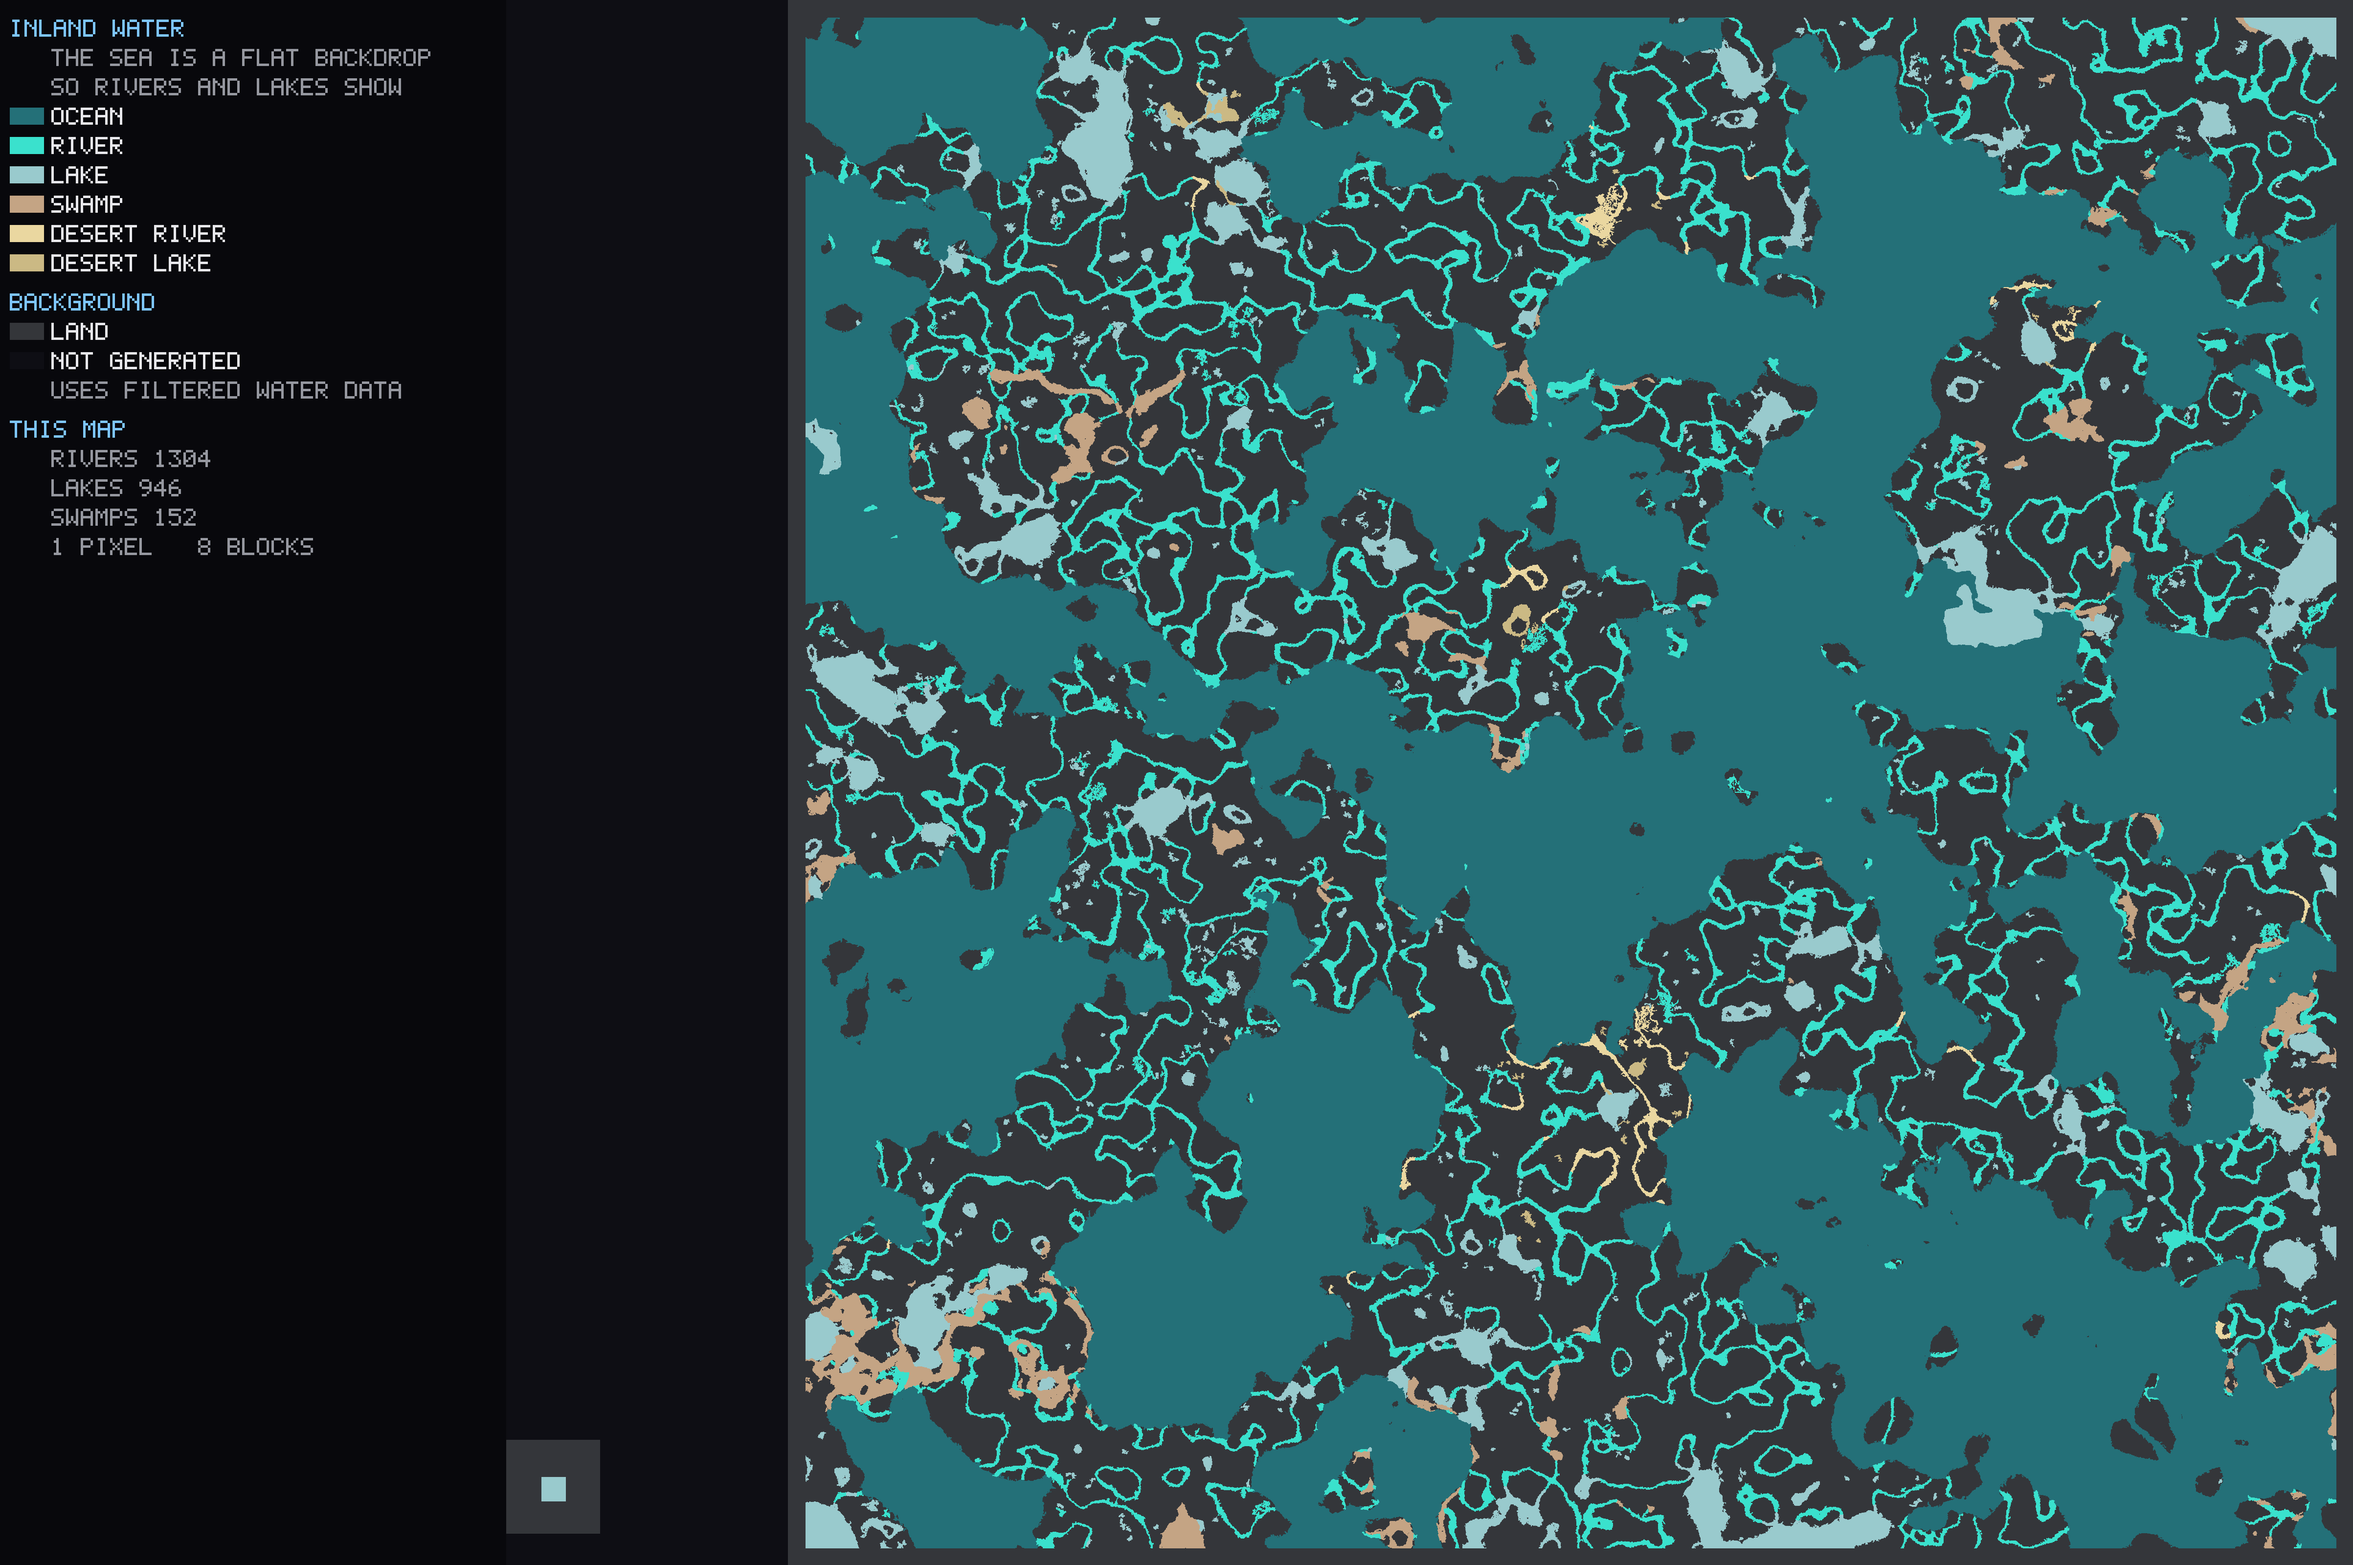
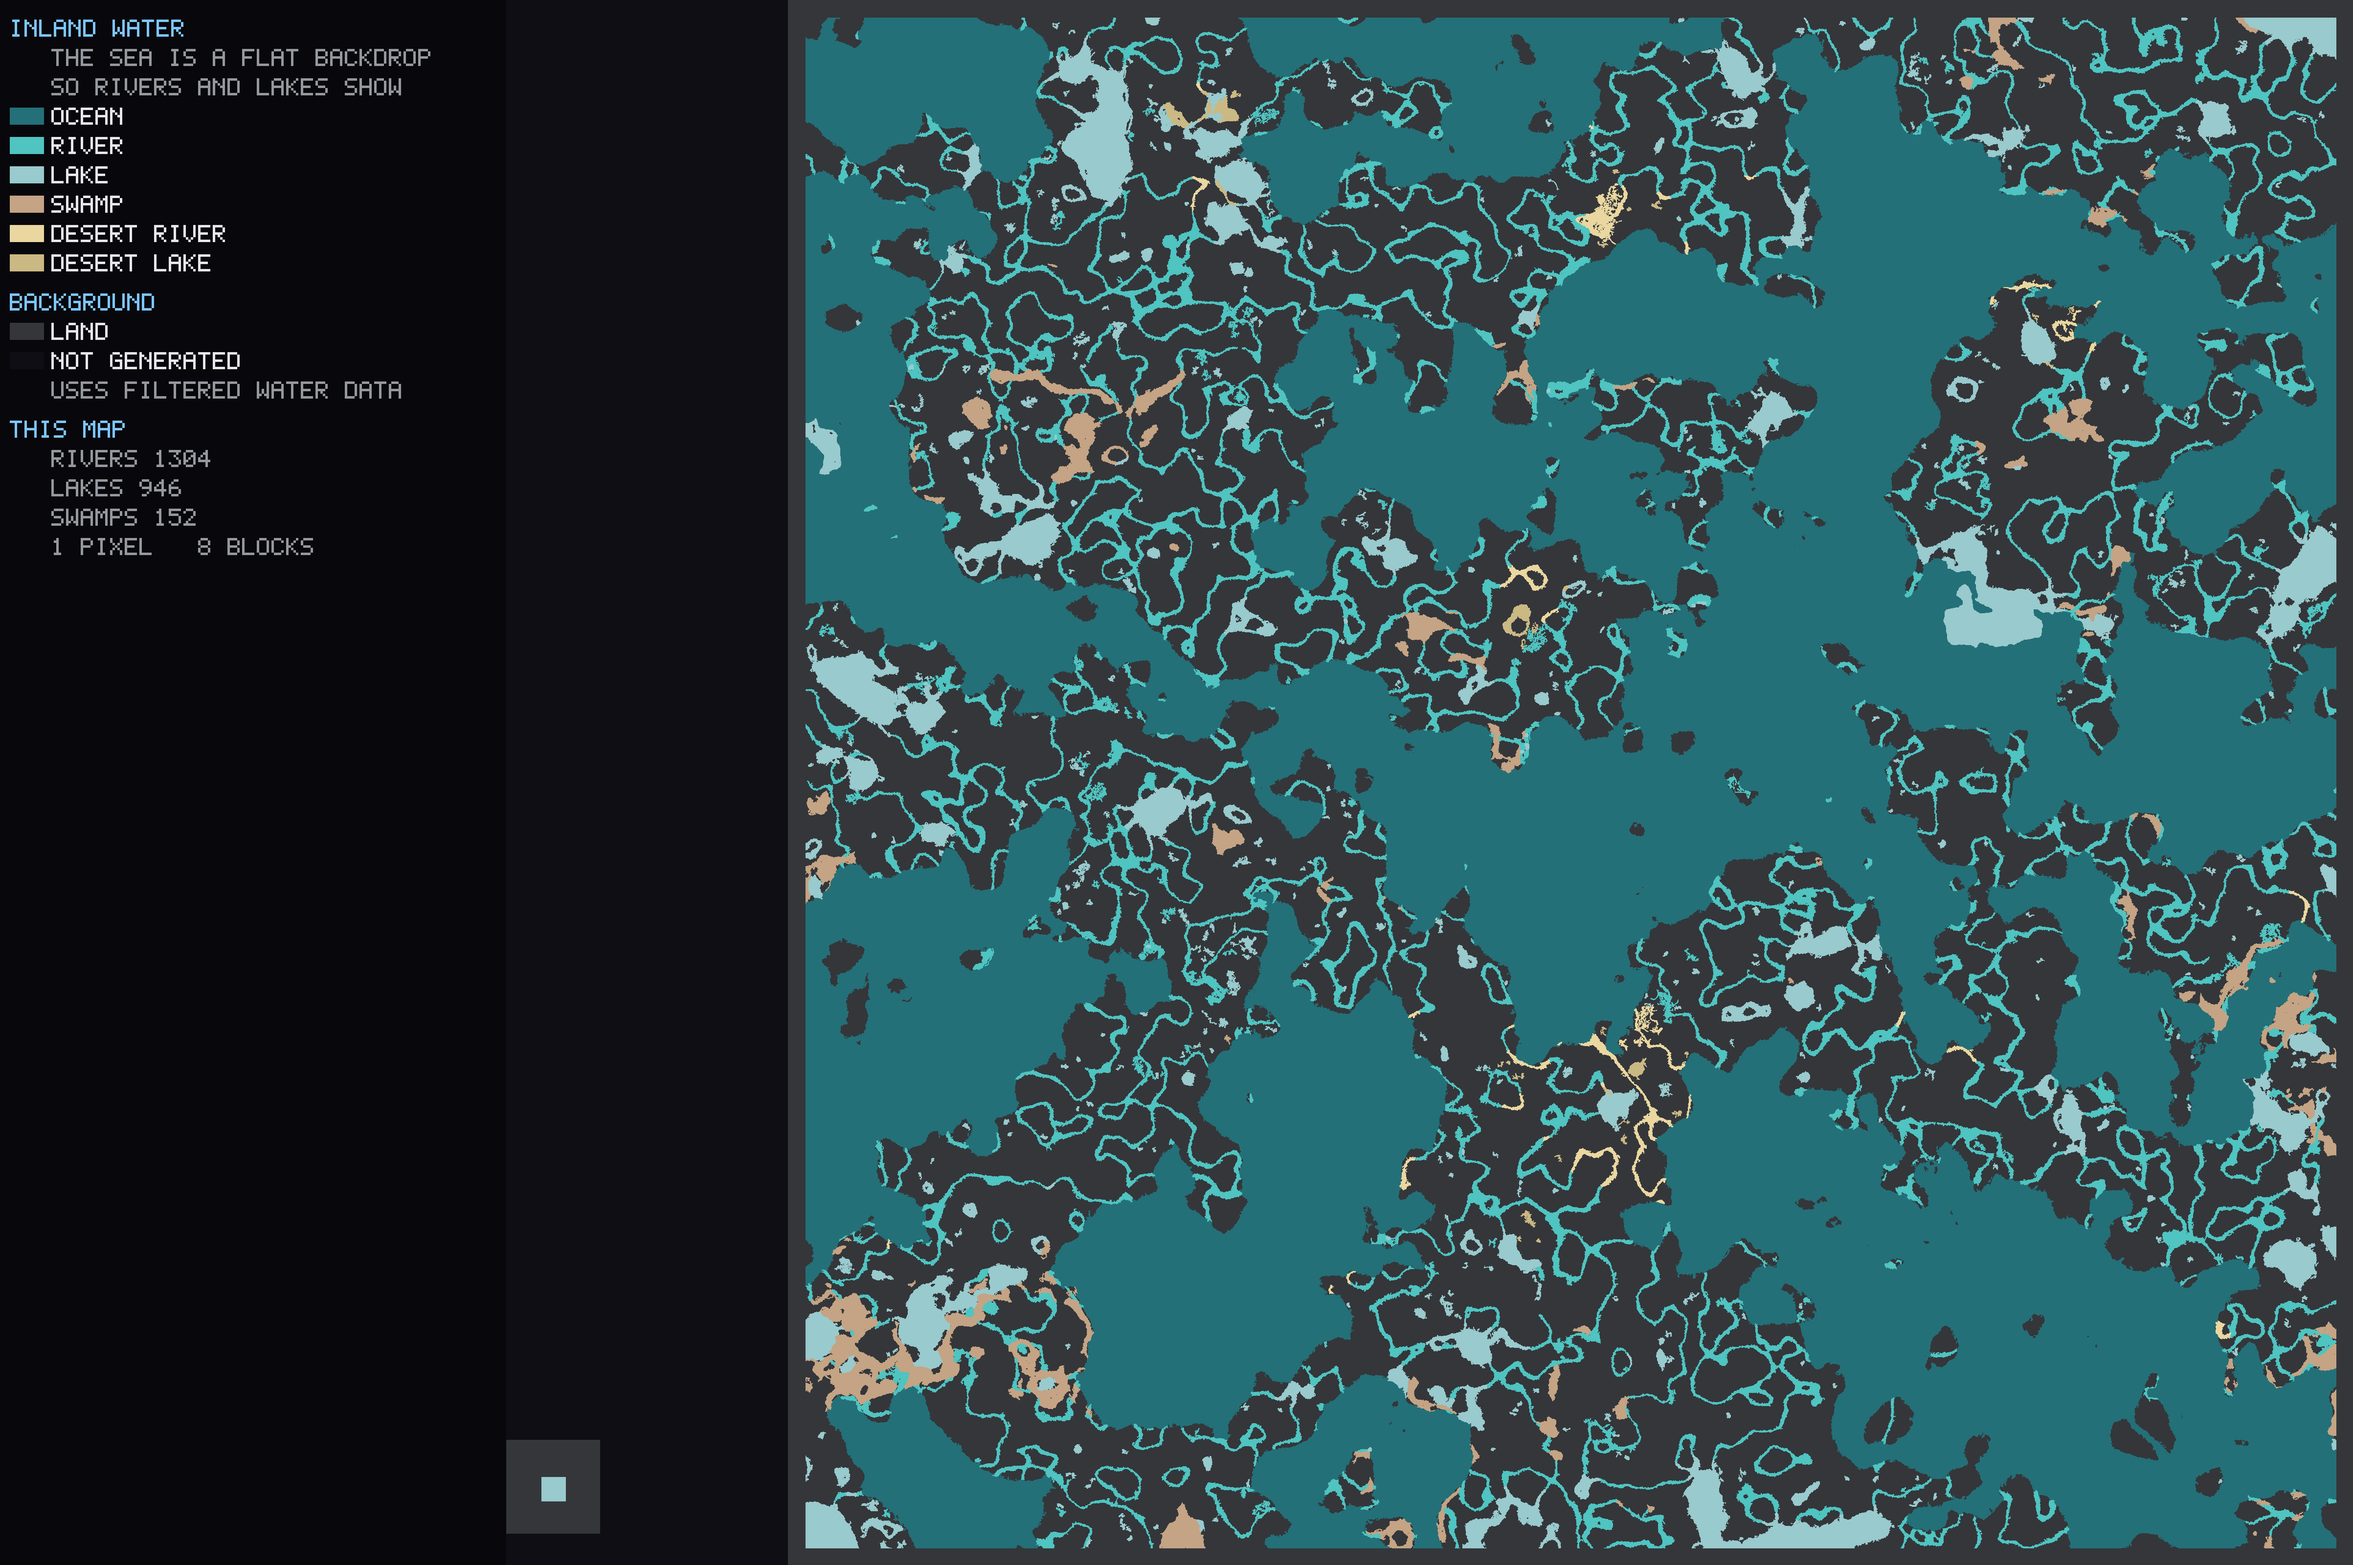
Harmonize river map color and document exact preset
Use a softer teal for normal rivers, refresh the README sample maps, and keep mask scoring compatible with both palette versions. Document the complete reproducible command and clarify where coral and cave modifier textures appear.

diff --git a/scripts/score_water_mask.py b/scripts/score_water_mask.py
@@ -15,8 +15,9 @@ import struct
 import numpy as np
 from PIL import Image
 
-RIVER = ((58, 225, 205), (234, 215, 160))
+RIVER = ((79, 196, 193), (58, 225, 205), (234, 215, 160))
 LAKE = ((153, 202, 205), (203, 185, 132))
+DEFAULT_RIVER_BRUSH = (58, 225, 205)
 
 
 def classes(rgb):
@@ -56,7 +57,7 @@ def main():
     parser.add_argument("--reference-map", type=Path, required=True)
     parser.add_argument("--reference-data", type=Path, required=True, help="water_regions.bin for the reference map")
     parser.add_argument("--map-scale", type=int, default=8)
-    parser.add_argument("--river-color", type=brush_color, default=RIVER[0], help="river brush RGB, default 3ae1cd")
+    parser.add_argument("--river-color", type=brush_color, default=DEFAULT_RIVER_BRUSH, help="river brush RGB, default 3ae1cd")
     parser.add_argument("--lake-color", type=brush_color, default=LAKE[0], help="lake brush RGB, default 99cacd")
     parser.add_argument("--map", type=Path, action="append", required=True, help="candidate combined PNG; repeat to compare")
     parser.add_argument("--output", type=Path, help="optional JSON report")

diff --git a/src/debug/map.rs b/src/debug/map.rs
@@ -33,6 +33,7 @@ const PANEL_BG: [u8; 3] = [8, 8, 12];
 const TEXT: [u8; 3] = [232, 232, 236];
 const TEXT_DIM: [u8; 3] = [150, 152, 160];
 const HEADER: [u8; 3] = [126, 198, 255];
+const RIVER_COLOR: [u8; 3] = [0x4f, 0xc4, 0xc1];
 const SWAMP_COLOR: [u8; 3] = [0xc4, 0xa4, 0x84];
 
 pub struct MapOptions {
@@ -827,7 +828,7 @@ fn ocean_rows(regions: &[WaterRegion], sea_level: i16, blocks_per_pixel: u32, mi
 fn inland_color(kind: WaterKind) -> [u8; 3] {
     match kind {
         WaterKind::Sea => [36, 112, 120],
-        WaterKind::River => [0x3a, 0xe1, 0xcd],
+        WaterKind::River => RIVER_COLOR,
         WaterKind::Lake => [0x99, 0xca, 0xcd],
         WaterKind::Swamp => SWAMP_COLOR,
     }

diff --git a/README.md b/README.md
@@ -26,6 +26,12 @@ Both class recalls exceed 90%; the requested 95% overall target is not yet met.
 Paint over non-water, oceans and swamps is excluded.
 This is agreement on the tuning mask, not a whole-world accuracy claim. See the
 [settings, evaluation and limitations](docs/lake-detection.md#mask-calibration).
+Modifier textures appear on `debug/water_map.png`: coral regions use magenta
+dots, ice uses pale stripes and cave water uses a dark diagonal texture. The
+clean combined overview intentionally omits those textures and does not paint
+underground cave pools over land. This height-filtered sample has no `CAVE`
+regions because covered water above the cutoff remains part of the surface
+network; omit the height filter to produce separately classified cave water.
 The earlier classifier produced 2,336 regions. The additional lake/channel cuts
 preserve exactly the same 351,359,105 retained water columns; short channels and
 attribute fragments can now be smaller than the earlier 2,000-column cleanup floor.
@@ -226,7 +232,7 @@ validation aids:
 | Warm ocean | `#4e5d7c` | `#2b3752` |
 | Normal ocean | `#12326e` | `#091937` |
 | Cold ocean | `#48659c` | `#2b3d5e` |
-| River / lake | River `#3ae1cd` | Lake `#99cacd` |
+| River / lake | River `#4fc4c1` | Lake `#99cacd` |
 | Desert river / lake | River `#ead7a0` | Lake `#cbb984` |
 | Swamp | Light brown `#c4a484` | `#c4a484` |
 
@@ -624,13 +630,32 @@ separate from `--ocean-map-min-area`: the latter simplifies only visible ocean
 colour patches (including depth patches) in the ocean and combined PNGs. Changing
 only that visual setting does **not** reduce the exported region count.
 
-The current cleaner preset for this world is:
+### Reproduce the README sample maps exactly
+
+The sample maps in this README were generated with the checked-in
+`docs/lake-defaults.json` and this complete command:
 
 ```bash
-cargo run --release -- --world "/path/to/world" --output ./generated --export-map --max-below-sea-level 10 --min-water-body 2000 --min-river-merge 20000 --min-sea-merge 10000 --ocean-map-min-area 10000
+cargo run --release -- \
+  --world "/path/to/world" \
+  --output ./generated \
+  --export-map \
+  --export-json \
+  --lake-debug \
+  --lake-config docs/lake-defaults.json \
+  --map-scale 8 \
+  --max-below-sea-level 10 \
+  --min-water-body 2000 \
+  --min-river-merge 20000 \
+  --min-sea-merge 10000 \
+  --ocean-map-min-area 10000
 ```
 
-The command above uses a height cutoff and retains covered mountain rivers.
+The JSON file contains every lake/core/closed-body threshold used by the sample;
+the command spells out every non-default scan, merge and render parameter. Keep
+both together to reproduce the classification and image at this commit. Thread
+count affects speed only. The command uses a height cutoff and retains covered
+mountain rivers.
 For the original unrestricted cave scan, remove `--max-below-sea-level 10`;
 start with `--min-cave-body 4000` to filter small cave-classified pools.
 Cave pools dominate the total region count in the example world, so filtering
